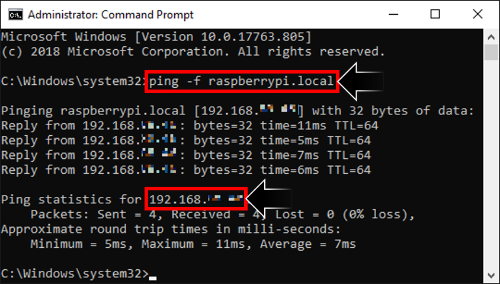
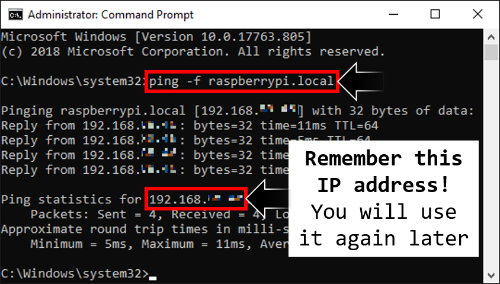
Edits (thanks Angela\!) to Introduction to Raspberry Pi.

Changed region(s): [[0.57, 0.4789, 0.96, 0.9296]]

diff --git a/raspberrypi/README.md b/raspberrypi/README.md
@@ -60,7 +60,7 @@
    * You will also need:
    1. Cell phone charger (5V) with micro USB cable
    2. MicroSD card (≥8 GB)
-* NOTE: There exists an older model, the Raspberry Pi Zero (without the "W"), that **does not include WiFi capability required for this tutorial**
+* NOTE: The older model Raspberry Pi Zero (without the "W") **does not include WiFi capability required for this tutorial**
 
 > [![.img/step00b.png](.img/step00b.png)](#nolink)
 > 
@@ -76,7 +76,7 @@
 * Connect to WiFi using only the network name (a.k.a. SSID) and password
    * Some networks may require additional registration for new devices, like a school or public hotspot; consult your IT department about adding your Pi
 * Disabled ["wireless isolation" (a.k.a. AP isolation, station isolation, or client isolation)](https://www.howtogeek.com/179089/lock-down-your-wi-fi-network-with-your-routers-wireless-isolation-option/)
-   * There is no compromise on this one; if wireless isolation is not disabled on your network, you will not be able to connect to your Pi trhough WiFi
+   * There is no compromise on this one; if wireless isolation is not disabled on your network, you will not be able to connect to your Pi through WiFi
 
 **Once you have everything here, you're ready to go!**
 
@@ -112,7 +112,7 @@
 
 ### 2.2. Burn OS Image on Micro SD Card
 
-* Download Rufus Portable v3.8: [https://rufus.ie/](https://rufus.ie/)
+* Download and run Rufus Portable v3.8: [https://rufus.ie/](https://rufus.ie/)
 * Select your micro SD card as the device
 * Choose the Raspbian ZIP image and `START` the burn
    * Coffee Break: This will take ~10 mins and you don't need to babysit
@@ -205,11 +205,13 @@ network={
 ### 3.1. Determining the IP address of your headless Raspberry Pi
 
 * Press the Windows key and search for "command" and open **Command Prompt**
-* In Command Prompt, execute "`ping -f raspberrypi.local`", this will give you the IP address that the Pi connected as:
+* In Command Prompt, execute "`ping -f raspberrypi.local`"
    * This operation will not work in WSL Bash, only Windows Command Prompt
-   * If the above fails or you are not using Windows, see: [Advanced Connection Methods for Headless Raspberry Pi](#advanced-connection-methods-for-headless-raspberry-pi)
+* This will give you the **IP address** that the Pi connected as (write this down):
 
 [![.img/step031a.png](.img/step031a.png)](#nolink)
+
+* If this method to get the IP address fails or you are not using Windows, see: [Advanced Connection Methods for Headless Raspberry Pi](#advanced-connection-methods-for-headless-raspberry-pi)
 
 ### 3.2. Remote connection to Raspberry Pi
 
@@ -354,14 +356,21 @@ $ cd ~/Craft && nano server.py
 ### 5.5. Start Craft server program
 
 * The Craft server program must be actively running to host a multiplayer world for users (clients) to log into
-* Once you execute the line below, the server program will start running and display events as they happen in the game world (players connecting, players logging out, etc.)
+* The server program will start running when you execute the line below and **initially look blank** (no text cursor)
 
 ```
 $ cd ~/Craft && \
   python server.py
 ```
 
-* Remember the IP address for the Pi, **this IP is the address that clients will connect to** within your local area network (LAN)
+[![.img/step05b.png](.img/step05b.png)](#nolink)
+
+
+* Events will only display as they happen in the game world (players connecting, players logging out, etc.)
+
+[![.img/step05c.png](.img/step05c.png)](#nolink)
+
+* Remember the IP address for the Pi from step 3.1: **This IP is the address that clients will connect to**
 * With the Craft server program running, move on to the next section
 
 [Back to Top](#table-of-contents)
@@ -372,13 +381,15 @@ $ cd ~/Craft && \
 
 ### 6.1. Download Craft client program
 
-* Download the Craft client for Windows or MacOS here: https://www.michaelfogleman.com/projects/craft/
-   * This is a "portable" program (nothing needs to be installed), just extract the ZIP file
+* Download and extract the ZIP file of the Craft client for Windows or MacOS here: https://www.michaelfogleman.com/projects/craft/
 * Run `craft.exe`
 
 ### 6.2. Connecting to Craft server
 
-* Once the game starts, press "`T`" and enter "`/online <PI'S IP ADDRESS>`" to connect to your Craft multiplayer server
+**Recall the IP address that you used to connect to your Pi server from step 3.1**
+
+* Once the game starts, bring up the in-game console by pressing "`T`"
+* Enter "`/online <PI'S IP ADDRESS>`" to connect to your Craft multiplayer server
 
 [![.img/step06ba.png](.img/step06ba.png)](#nolink)
 
@@ -390,7 +401,7 @@ $ cd ~/Craft && \
 
 Button | Action
 --- | ---
-`W`, `A`, `S`, `D` | Movement
+`W`, `A`, `S`, `D` | Movement (Up, Left, Down, Right)
 `Left-Mouse` | Destroy block
 `Right-Mouse` | Create block
 `Mouse-Wheel` | Cycle through block types
@@ -407,10 +418,8 @@ More controls | https://github.com/fogleman/Craft#controls
 [![.img/step06c.png](.img/step06c.png)](#nolink)
 
 
-* **Switch back to single-player mode from multiplayer** by pressing "`T`" and enter "`/offline`"
-* You can have a single-player experience in Craft without connecting to a server and have your world saved locally on your computer
+* **Switch back to single-player mode from multiplayer** by pressing "`T`" and entering "`/offline`"
 * Other players will not be able to connect to your single-player mode world
-
 
 ### 6.5. Cleanup
 
